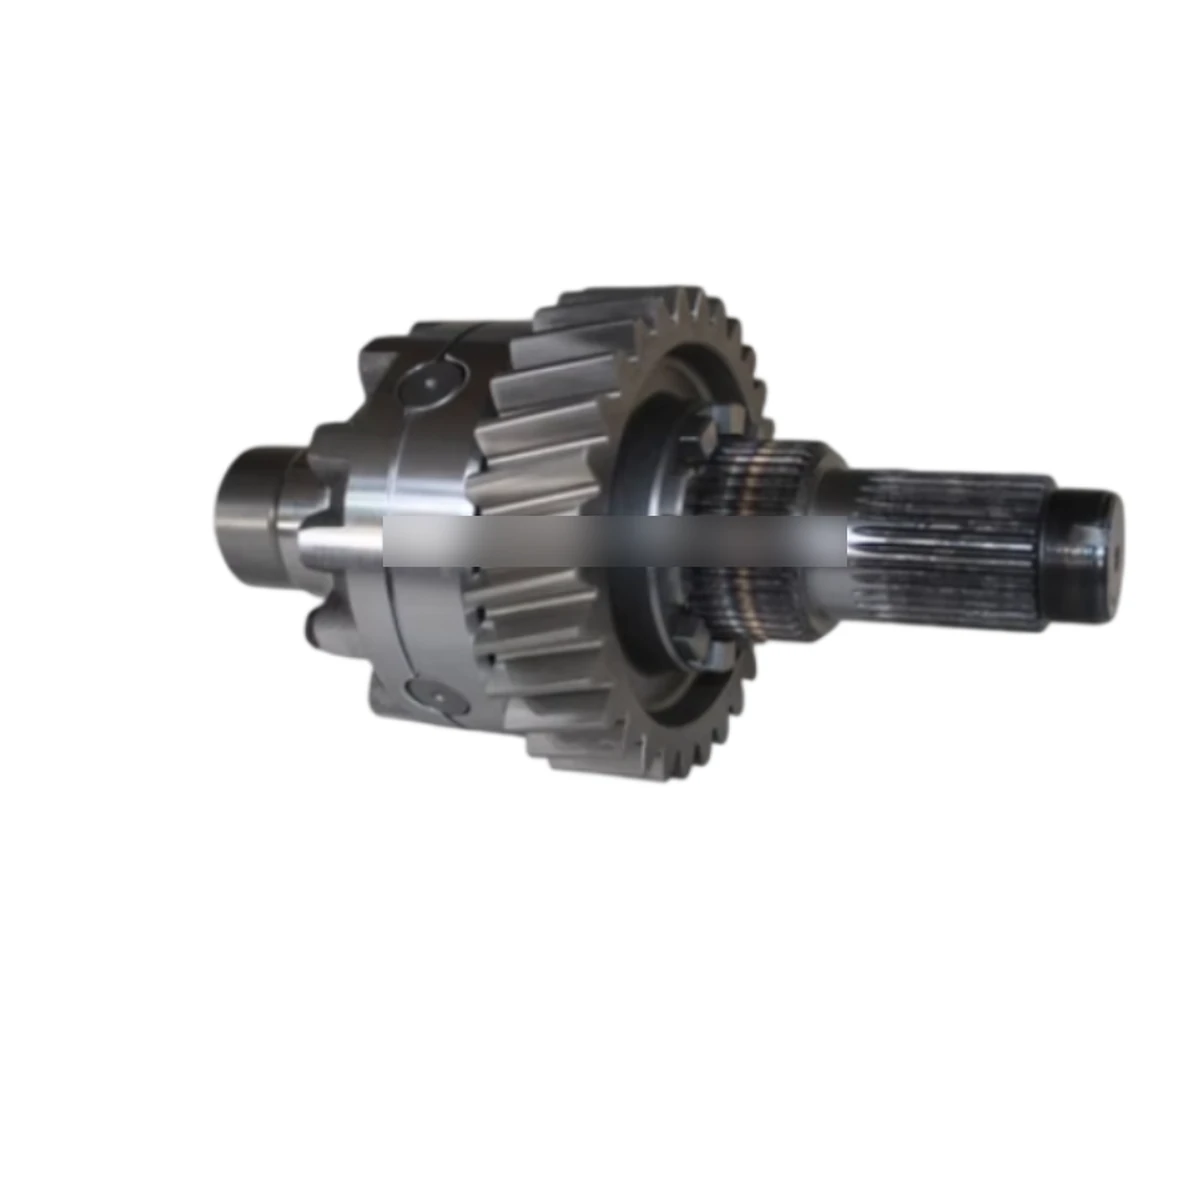
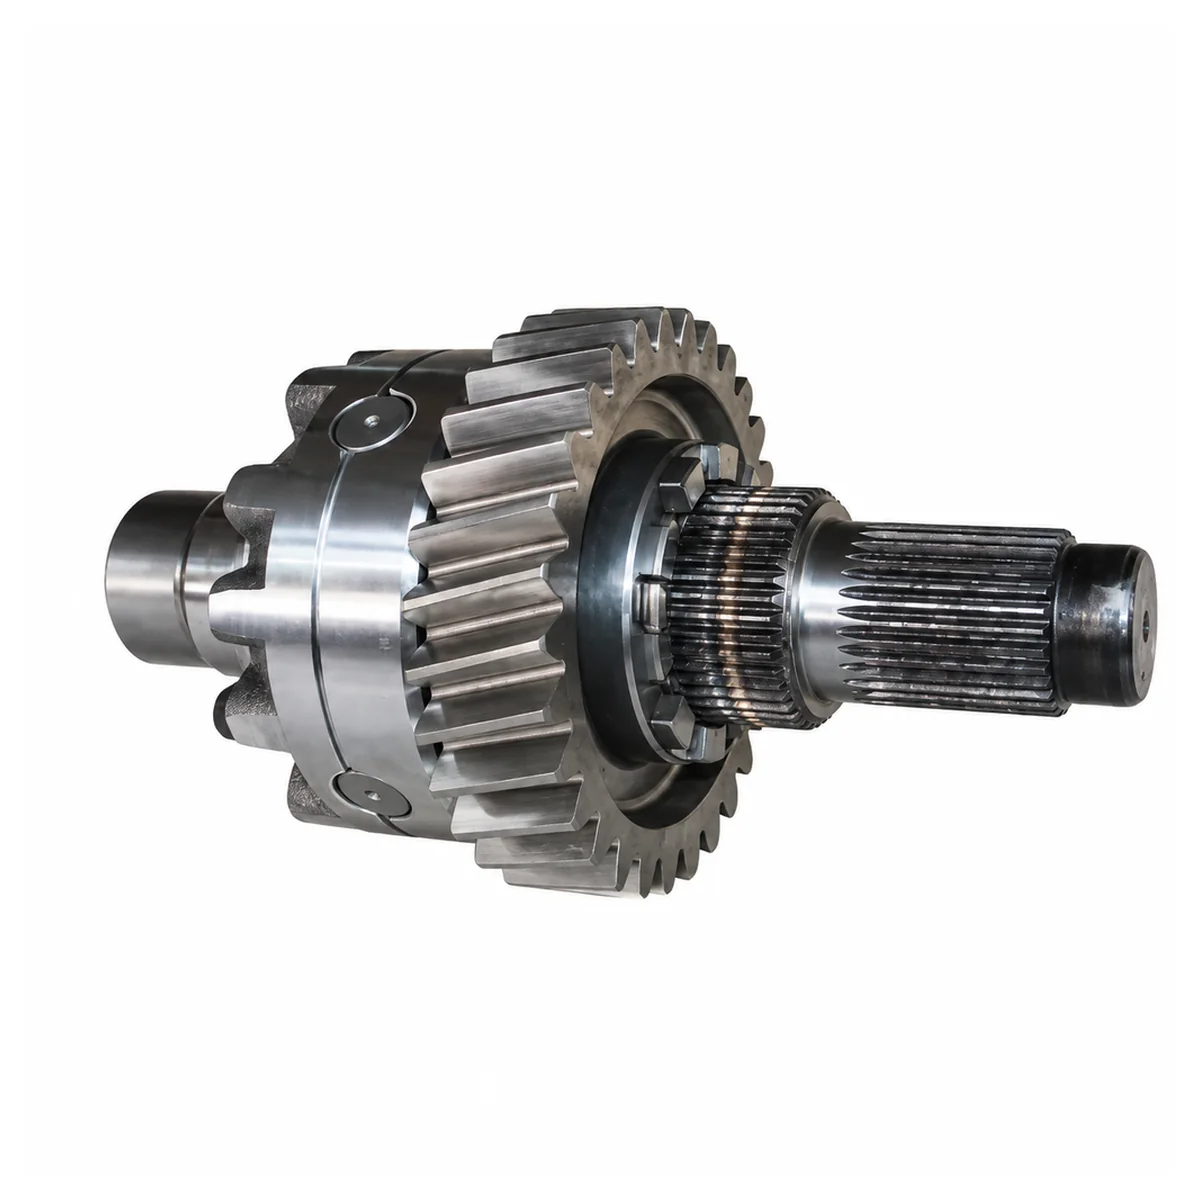
Refine differential product images

Changed region(s): [[0.0617, 0.2158, 0.9867, 0.7708]]

diff --git a/components/ProductGallery.tsx b/components/ProductGallery.tsx
@@ -16,7 +16,7 @@ export default function ProductGallery({ images, alt, hint }: ProductGalleryProp
   return (
     <div className="product-detail-gallery">
       <div className="product-detail-gallery-main">
-        <ProductImageZoom src={`${activeImage}?v=20261107-gallery2`} alt={alt} hint={hint} />
+        <ProductImageZoom src={`${activeImage}?v=20261107-differential-ai1`} alt={alt} hint={hint} />
       </div>
       {images.length > 1 && (
         <div className="product-detail-gallery-thumbs" aria-label="Product images">
@@ -29,7 +29,7 @@ export default function ProductGallery({ images, alt, hint }: ProductGalleryProp
               aria-label={`View product image ${index + 1}`}
               aria-pressed={selected === index}
             >
-              <img src={`${image}?v=20261107-gallery2`} alt="" loading="lazy" />
+              <img src={`${image}?v=20261107-differential-ai1`} alt="" loading="lazy" />
             </button>
           ))}
         </div>
